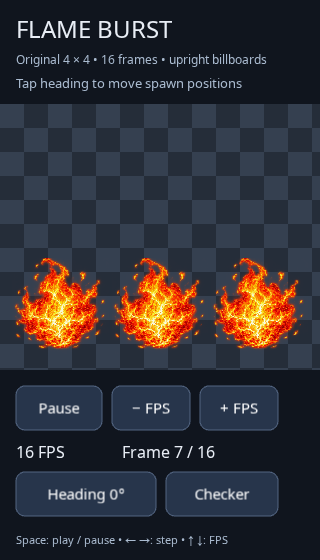
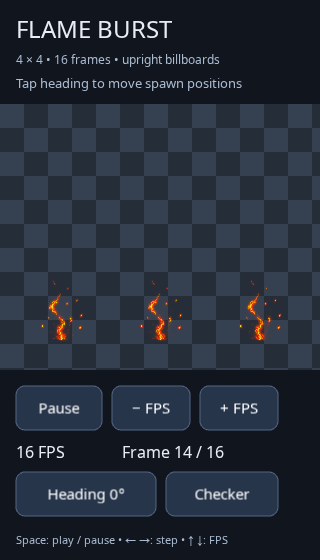
Extract configurable modular Pixi spritesheet playback engine

diff --git a/src/fx/flame-burst.ts b/src/fx/flame-burst.ts
@@ -1,14 +1,18 @@
-import {Application,Assets,Container,Graphics,Rectangle,Sprite,Text,Texture} from 'pixi.js';
+import {SpriteSheetPlayback,validateConfig} from '../sprite-sheet/playback';
+import {Application,Assets,Container,Graphics,Text,Texture} from 'pixi.js';
 const app=new Application();
-let playing=true,fps=16,frame=0,elapsed=0,heading=0,background=0;
+let heading=0,background=0;
 const colors=[0x252d39,0x111827,0xf0f2f5];
 async function boot(){
  await app.init({resizeTo:window,background:0x10151e,antialias:true,resolution:Math.min(devicePixelRatio,2),autoDensity:true,preference:'webgl'});
  document.body.appendChild(app.canvas);
- const sheet=await Assets.load<Texture>(new URL('source.png',document.baseURI).href);
- const frames=Array.from({length:16},(_,i)=>{const c=i%4,r=Math.floor(i/4),x=Math.round(c*sheet.width/4),y=Math.round(r*sheet.height/4);return new Texture({source:sheet.source,frame:new Rectangle(x,y,Math.round((c+1)*sheet.width/4)-x,Math.round((r+1)*sheet.height/4)-y)});});
+ const manifestUrl=new URL(new URLSearchParams(location.search).get('clip')||'clip.json',document.baseURI);
+ const response=await fetch(manifestUrl);if(!response.ok)throw Error('Could not load sprite sheet metadata');
+ const config=validateConfig(await response.json());
+ const sheet=await Assets.load<Texture>(new URL(config.source,manifestUrl).href);
+ const playback=new SpriteSheetPlayback(sheet,config),frames=playback.frames;
  const floor=new Graphics(),flames=new Container(),ui=new Container();app.stage.addChild(floor,flames,ui);
- const sprites=Array.from({length:3},()=>{const s=new Sprite(frames[0]);s.anchor.set(.5,1);flames.addChild(s);return s;});
+ const sprites=Array.from({length:3},()=>{const s=playback.createSprite();flames.addChild(s);return s;});
  const labels:Text[]=[];let textIndex=0;const buttons:Record<string,Container>={};
  const text=(value:string,x:number,y:number,size=15,color=0xe8edf5)=>{const t=labels[textIndex]||new Text({text:value,style:{fontFamily:'Arial',fontSize:size,fill:color}});t.text=value;t.position.set(x,y);if(!labels[textIndex]){ui.addChild(t);labels.push(t);}textIndex++;return t;};
  let controls:Record<string,{x:number,y:number,w:number,h:number}>={};
@@ -18,25 +22,25 @@ async function boot(){
   const w=app.screen.width,h=app.screen.height,p=16,areaTop=104,areaBottom=Math.max(areaTop+40,h-190),areaHeight=areaBottom-areaTop;
   floor.clear().rect(0,areaTop,w,areaHeight).fill(colors[background]);
   if(background===0)for(let y=areaTop;y<areaBottom;y+=24)for(let x=0;x<w;x+=24)if(((x/24+Math.floor((y-areaTop)/24))%2)===0)floor.rect(x,y,Math.min(24,w-x),Math.min(24,areaBottom-y)).fill(0x354050);
-  text('FLAME BURST',p,16,24);text('Original 4 × 4 • 16 frames • upright billboards',p,52,w<360?12:14,0xaabbd0);
+  text(config.title.toUpperCase(),p,16,24);text(`${config.columns} × ${config.rows} • ${frames.length} frames • upright billboards`,p,52,w<360?12:14,0xaabbd0);
   text('Tap heading to move spawn positions',p,76,13,0xaabbd0);
   const a=heading*Math.PI/180,spacing=Math.min(w*.31,310),size=Math.min(w*.30,areaHeight*.91,300),baseY=areaTop+areaHeight*.94;
-  sprites.forEach((s,i)=>{const offset=i-1;s.position.set(w/2+Math.cos(a)*offset*spacing,baseY+Math.sin(a)*offset*Math.min(22,areaHeight*.06));s.rotation=0;s.width=size;s.height=size;});
+  sprites.forEach((s,i)=>{const offset=i-1;s.position.set(w/2+Math.cos(a)*offset*spacing,baseY+Math.sin(a)*offset*Math.min(22,areaHeight*.06));s.rotation=0;s.width=size;s.height=size*frames[0].height/frames[0].width;});
   const y=h-174;
-  button('play',playing?'Pause':'Play',p,y,86,()=>{playing=!playing;layout();});
-  button('minus','− FPS',112,y,78,()=>{fps=Math.max(1,fps-1);layout();});
-  button('plus','+ FPS',200,y,78,()=>{fps=Math.min(60,fps+1);layout();});
-  text(`${fps} FPS`,p,y+56,16);text(`Frame ${frame+1} / 16`,122,y+56,16);
+  button('play',playback.playing?'Pause':'Play',p,y,86,()=>{playback.playing=!playback.playing;layout();});
+  button('minus','− FPS',112,y,78,()=>{playback.fps=Math.max(1,playback.fps-1);layout();});
+  button('plus','+ FPS',200,y,78,()=>{playback.fps=Math.min(60,playback.fps+1);layout();});
+  text(`${playback.fps} FPS`,p,y+56,16);text(`Frame ${playback.frame+1} / ${frames.length}`,122,y+56,16);
   button('heading',`Heading ${heading}°`,p,y+86,140,()=>{heading=(heading+45)%360;layout();});
   button('background',['Checker','Dark','Light'][background],166,y+86,112,()=>{background=(background+1)%3;layout();});
   text('Space: play / pause • ← →: step • ↑ ↓: FPS',p,h-27,w<360?11:13,0xaabbd0);
  }
- function render(){sprites.forEach(s=>{s.texture=frames[frame];});const t=labels.find(t=>t.text.startsWith('Frame '));if(t)t.text=`Frame ${frame+1} / 16`;}
- app.ticker.add(t=>{if(playing){elapsed+=Math.min(t.deltaMS,100);const steps=Math.floor(elapsed*fps/1000);if(steps){elapsed-=steps*1000/fps;frame=(frame+steps)%16;render();}}});
+ function render(){const t=labels.find(t=>t.text.startsWith('Frame '));if(t)t.text=`Frame ${playback.frame+1} / ${frames.length}`;}
+ app.ticker.add(t=>{const wasPlaying=playback.playing;playback.update(t.deltaMS);render();if(wasPlaying!==playback.playing)layout();});
  window.addEventListener('resize',()=>{app.resize();layout();});
- window.addEventListener('keydown',e=>{if(!['Space','ArrowLeft','ArrowRight','ArrowUp','ArrowDown'].includes(e.code))return;e.preventDefault();if(e.code==='Space')playing=!playing;if(e.code==='ArrowLeft'||e.code==='ArrowRight'){playing=false;elapsed=0;frame=(frame+(e.code==='ArrowRight'?1:15))%16;}if(e.code==='ArrowUp')fps=Math.min(60,fps+1);if(e.code==='ArrowDown')fps=Math.max(1,fps-1);layout();render();});
- document.addEventListener('visibilitychange',()=>{elapsed=0;});
+ window.addEventListener('keydown',e=>{if(!['Space','ArrowLeft','ArrowRight','ArrowUp','ArrowDown'].includes(e.code))return;e.preventDefault();if(e.code==='Space')playback.playing=!playback.playing;if(e.code==='ArrowLeft'||e.code==='ArrowRight'){playback.step(e.code==='ArrowRight'?1:-1);}if(e.code==='ArrowUp')playback.fps=Math.min(60,playback.fps+1);if(e.code==='ArrowDown')playback.fps=Math.max(1,playback.fps-1);layout();render();});
+ document.addEventListener('visibilitychange',()=>{playback.resetClock();});
  layout();render();
- Object.assign(window,{flameBurst:{state:()=>({playing,fps,frame,heading,background,controls,width:app.screen.width,height:app.screen.height,rotations:sprites.map(s=>s.rotation),positions:sprites.map(s=>({x:s.x,y:s.y})),frames:frames.map(t=>({x:t.frame.x,y:t.frame.y,w:t.frame.width,h:t.frame.height})),baseAnchor:sprites[0].anchor.y})}});
+ Object.assign(window,{flameBurst:{state:()=>({playing:playback.playing,fps:playback.fps,frame:playback.frame,config,heading,background,controls,width:app.screen.width,height:app.screen.height,rotations:sprites.map(s=>s.rotation),positions:sprites.map(s=>({x:s.x,y:s.y})),frames:frames.map(t=>({x:t.frame.x,y:t.frame.y,w:t.frame.width,h:t.frame.height})),baseAnchor:sprites[0].anchor.y})}});
 }
-void boot();
+void boot().catch(error=>{console.error(error);const t=new Text({text:'Player could not load. Check sprite sheet metadata and image URL.',style:{fontFamily:'Arial',fontSize:16,fill:0xffffff,wordWrap:true,wordWrapWidth:Math.max(220,innerWidth-32)}});t.position.set(16,20);app.stage.addChild(t);});

diff --git a/src/sprite-sheet/playback.ts b/src/sprite-sheet/playback.ts
@@ -1,0 +1,64 @@
+import {Rectangle,Sprite,Texture} from 'pixi.js';
+
+/** Row-major grid metadata. Pivot is normalized within each untrimmed cell. */
+export interface SpriteSheetConfig {
+ title: string;
+ source: string;
+ columns: number;
+ rows: number;
+ frameCount?: number;
+ fps: number;
+ pivot: {x:number;y:number};
+ loop?: boolean;
+}
+export function validateConfig(value:unknown):SpriteSheetConfig {
+ const c=value as SpriteSheetConfig;
+ if(!c||typeof c.title!=='string'||!c.title.trim()||typeof c.source!=='string'||!c.source.trim())throw Error('Sprite sheet requires a title and source URL');
+ for(const n of [c.columns,c.rows])if(!Number.isInteger(n)||n<1||n>256)throw Error('Grid dimensions must be integers from 1 to 256');
+ if(!Number.isFinite(c.fps)||c.fps<1||c.fps>60)throw Error('FPS must be between 1 and 60');
+ if(!c.pivot||![c.pivot.x,c.pivot.y].every(n=>Number.isFinite(n)&&n>=0&&n<=1))throw Error('Pivot coordinates must be between 0 and 1');
+ if(c.frameCount!==undefined&&(!Number.isInteger(c.frameCount)||c.frameCount<1||c.frameCount>c.columns*c.rows))throw Error('Frame count exceeds the grid');
+ if(c.loop!==undefined&&typeof c.loop!=='boolean')throw Error('Loop must be boolean');
+ return {...c,pivot:{...c.pivot}};
+}
+export function sliceGrid(sheet:Texture,config:SpriteSheetConfig):Texture[] {
+ const c=validateConfig(config);
+ if(sheet.width<c.columns||sheet.height<c.rows)throw Error('Grid contains cells smaller than one pixel');
+ return Array.from({length:c.frameCount??c.columns*c.rows},(_,i)=>{
+  const col=i%c.columns,row=Math.floor(i/c.columns),x=Math.round(col*sheet.width/c.columns),y=Math.round(row*sheet.height/c.rows);
+  return new Texture({source:sheet.source,frame:new Rectangle(x,y,Math.round((col+1)*sheet.width/c.columns)-x,Math.round((row+1)*sheet.height/c.rows)-y)});
+ });
+}
+/** Shared clock and frame selection; each attached Sprite keeps its own position/rotation/scale. */
+export class SpriteSheetPlayback {
+ readonly frames:Texture[];
+ readonly config:SpriteSheetConfig;
+ private targets=new Set<Sprite>();
+ private remainder=0;
+ private rate:number;
+ private current=0;
+ playing=true;
+ constructor(sheet:Texture,config:SpriteSheetConfig){this.config=validateConfig(config);this.frames=sliceGrid(sheet,this.config);this.rate=this.config.fps;}
+ get fps(){return this.rate;}
+ set fps(value:number){if(!Number.isFinite(value)||value<1||value>60)throw Error('FPS must be between 1 and 60');this.rate=value;this.resetClock();}
+ get frame(){return this.current;}
+ createSprite(){const s=new Sprite(this.frames[this.current]);s.anchor.set(this.config.pivot.x,this.config.pivot.y);this.targets.add(s);return s;}
+ detach(sprite:Sprite){this.targets.delete(sprite);}
+ seek(frame:number){if(!Number.isInteger(frame))throw Error('Frame must be an integer');this.current=((frame%this.frames.length)+this.frames.length)%this.frames.length;this.resetClock();this.sync();}
+ step(amount:number){this.playing=false;this.seek(this.current+amount);}
+ resetClock(){this.remainder=0;}
+ update(deltaMS:number){
+  if(!this.playing||!Number.isFinite(deltaMS)||deltaMS<=0)return;
+  this.remainder+=Math.min(deltaMS,100);
+  const steps=Math.floor(this.remainder*this.rate/1000);
+  if(!steps)return;
+  this.remainder-=steps*1000/this.rate;
+  const next=this.current+steps;
+  if(this.config.loop===false&&next>=this.frames.length){this.current=this.frames.length-1;this.playing=false;this.resetClock();}
+  else this.current=next%this.frames.length;
+  this.sync();
+ }
+ private sync(){for(const s of this.targets)if(!s.destroyed)s.texture=this.frames[this.current];}
+ /** Releases generated frame views only. The caller owns the shared source texture. */
+ destroy(){this.targets.clear();for(const t of this.frames)t.destroy(false);}
+}

diff --git a/docs/flame-burst/README.md b/docs/flame-burst/README.md
@@ -18,10 +18,24 @@ TypeScript and the Vite production build are checked. The Playwright fixture che
 
 Set PLAYER_URL=https://ark-whachat.fural.space/ember-warden-review/flame-burst/ to verify production. These are desktop/mobile browser viewport checks, not physical-device GPU benchmarks.
 
-Release: commit selected owned paths, push, then `fural-agent repos ship RPe11327fbfe413dbeba246526 --mode script --script scripts/flame-burst/deploy.sh`. The script holds the shared lock, verifies matching committed source, builds the isolated page, includes committed evidence and publishes one bounded layer through the existing Arkodia publisher. No game files or peer WIP are packaged. The /flame-burst prefix survives subsequent game layers because it is independent of their selected file set.
+Release: commit selected owned paths, push, then `fural-agent repos ship RPe11327fbfe413dbeba246526 --mode script --script scripts/flame-burst/deploy.sh`. The script holds the shared lock, verifies matching committed source, builds the isolated page, includes committed evidence and publishes one bounded layer through the existing Arkodia publisher. No game files or peer WIP are packaged. The /ember-warden-review/flame-burst prefix survives subsequent game layers because it is independent of their selected file set.
 
 Knowledge supports an HTML iframe, with the deployed URL. Chat capability inspection: this session exposes message text, file/photo/audio attachments, download and sandbox file-preview links; no tool or CLI operation exposes an inline interactive chat embed. An iframe is not presented as working chat content. Use the live link or the Knowledge player. The platform was not modified.
 
 ## Release verification
 
 Implementation 4042a86e and public-route correction c089cf50 were pushed and deployed through the repository script pipeline. Live checks passed 1440×900, 390×844, 320×560 and 844×390, all sixteen frames, repeated Play/Pause/FPS/background controls and all eight upright headings. Cross-origin iframe animation and pointer Pause passed at 390×700. The public `source.png?raw=1` SHA-256 matches the original attachment, and game /healthz returns 200. JSON reports and screenshots are retained alongside this document. An early /flame-burst/ route returned the game's SPA fallback; the final URL uses the existing public /ember-warden-review/ gateway route. No gateway/platform code changed.
+
+## Modular sprite sheet player
+
+`src/sprite-sheet/playback.ts` exports `SpriteSheetConfig`, `validateConfig`, `sliceGrid` and `SpriteSheetPlayback`. This engine owns cell views, frame selection and a shared clock. It has no Flame Burst asset paths, DOM controls, heading logic or scene layout. The Pixi viewer in `src/fx/flame-burst.ts` is a separate consumer. Grid slicing supports unequal cell dimensions, non-square sheets and partially occupied final rows. The viewer preserves cell aspect ratio.
+
+`public/flame-burst/clip.json` configures the Flame Burst preset. The same viewer accepts `?clip=URL_TO_JSON`; image URLs resolve relative to that JSON URL. Supply CORS access for external metadata/images. Metadata fields: `title`, `source`, `columns`, `rows`, optional `frameCount`, `fps` (1–60), normalized `pivot: {x,y}` and optional `loop` (default true). Invalid metadata produces an English error within Pixi. A preset example:
+
+```json
+{"title":"My effect","source":"effect.png","columns":3,"rows":2,"frameCount":5,"fps":10,"pivot":{"x":0.5,"y":1},"loop":false}
+```
+
+In another Pixi scene, construct `new SpriteSheetPlayback(texture, config)`, attach `player.createSprite()` to your container, and call `player.update(ticker.deltaMS)`. Use `playing`, `fps`, `seek(index)` and `step(delta)` to control it; call `resetClock()` after suspension, `detach(sprite)` when removing an instance, and `destroy()` to release generated frame views. The shared source texture remains caller-owned. Positions, scale and rotation remain scene-owned; this viewer explicitly sets rotation to zero for upright flames.
+
+`node scripts/flame-burst/test-modular.mjs` checks independent 101×99 / 3×2 / five-frame input, custom pivot, synchronization of two sprites, placement preservation, pause, step, FPS changes, looping and non-looping completion, rejected metadata and source ownership. It does not merely retest the Flame Burst preset.
